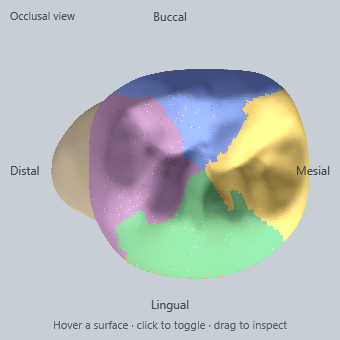
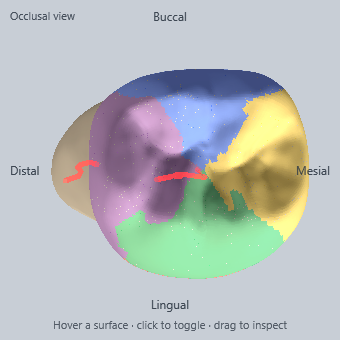
fix

Changed region(s): [[0.4412, 0.4706, 0.6176, 0.5588], [0.1765, 0.4706, 0.2941, 0.5588]]

diff --git a/MyOrganizer.Wpf/MVVM/Views/DentalChart/ToothLabView.xaml b/MyOrganizer.Wpf/MVVM/Views/DentalChart/ToothLabView.xaml
@@ -165,24 +165,25 @@
                         <ItemsControl.ItemTemplate>
                             <DataTemplate>
                                 <DockPanel LastChildFill="True" Margin="0,0,0,10">
-                                    <StackPanel DockPanel.Dock="Right" Orientation="Horizontal"
+                                    <StackPanel DockPanel.Dock="Right" Orientation="Vertical"
                                                 VerticalAlignment="Top" Margin="8,0,0,0">
                                         <Button Content="Edit"
                                                 Style="{StaticResource SecondaryButton}"
-                                                Padding="10,4" Margin="0,0,6,0"
+                                                Padding="10,4" Margin="0,0,0,6"
                                                 Command="{Binding EditCommand}"/>
                                         <Button Content="Remove"
                                                 Style="{StaticResource SecondaryButton}"
                                                 Padding="10,4"
                                                 Command="{Binding RemoveCommand}"/>
                                     </StackPanel>
-                                    <StackPanel MinWidth="0">
+                                    <StackPanel MinWidth="0" HorizontalAlignment="Stretch">
                                         <TextBlock Text="{Binding Title}" FontWeight="SemiBold"
-                                                   TextWrapping="Wrap"
+                                                   TextWrapping="Wrap" TextTrimming="None"
                                                    Foreground="{StaticResource Brush.TextPrimary}"/>
                                         <TextBlock Text="{Binding SurfacesDisplay}"
                                                    Style="{StaticResource Caption}"
-                                                   TextWrapping="Wrap" Margin="0,2,0,0"/>
+                                                   TextWrapping="Wrap" Margin="0,2,0,0"
+                                                   Visibility="{Binding HasDetail, Converter={StaticResource BoolToVis}}"/>
                                     </StackPanel>
                                 </DockPanel>
                             </DataTemplate>

diff --git a/MyOrganizer.Wpf/Controls/ToothMeshView.xaml b/MyOrganizer.Wpf/Controls/ToothMeshView.xaml
@@ -6,7 +6,8 @@
              SnapsToDevicePixels="False">
     <Grid Background="#C8CED6">
         <Viewbox Stretch="Fill">
-            <Viewport3D x:Name="View3D" Width="768" Height="768" IsHitTestVisible="True">
+            <Grid Width="768" Height="768">
+            <Viewport3D x:Name="View3D" IsHitTestVisible="True">
                 <Viewport3D.Camera>
                     <OrthographicCamera x:Name="OrthoCam"
                                        Width="1.8"
@@ -110,6 +111,24 @@
                 <ModelVisual3D x:Name="SelectedOverlayVisual"/>
                 <ModelVisual3D x:Name="HoverOverlayVisual"/>
             </Viewport3D>
+            <Viewport3D x:Name="CanalGhostView" IsHitTestVisible="False">
+                <Viewport3D.Camera>
+                    <OrthographicCamera x:Name="GhostOrthoCam"
+                                       Width="1.8"
+                                       NearPlaneDistance="0.05"
+                                       FarPlaneDistance="200"
+                                       LookDirection="0,0,-1"
+                                       UpDirection="0,1,0"
+                                       Position="0,0,4"/>
+                </Viewport3D.Camera>
+                <ModelVisual3D>
+                    <ModelVisual3D.Content>
+                        <AmbientLight Color="#FFFFFFFF"/>
+                    </ModelVisual3D.Content>
+                </ModelVisual3D>
+                <ModelVisual3D x:Name="CanalGhostVisual"/>
+            </Viewport3D>
+            </Grid>
         </Viewbox>
 
         <TextBlock x:Name="ModeCaption" Text="Occlusal view"

diff --git a/MyOrganizer.Wpf/Controls/ToothMeshView.xaml.cs b/MyOrganizer.Wpf/Controls/ToothMeshView.xaml.cs
@@ -40,6 +40,12 @@ public partial class ToothMeshView : UserControl
         NearPlaneDistance = 0.05,
         FarPlaneDistance = 200
     };
+    private readonly PerspectiveCamera _ghostOrbitCam = new()
+    {
+        FieldOfView = 32,
+        NearPlaneDistance = 0.05,
+        FarPlaneDistance = 200
+    };
 
     private Point _last;
     private bool _dragging;
@@ -64,6 +70,8 @@ public partial class ToothMeshView : UserControl
     private IReadOnlyDictionary<string, IReadOnlyList<CanalSample>> _canalPaths =
         new Dictionary<string, IReadOnlyList<CanalSample>>();
     private Material? _canalMaterial;
+    private Material? _canalGhostMaterial;
+    private int _orbitCanalSync;
     private Material? _fillingMaterial;
     private Material? _hoverMaterial;
     private Material? _selectedMaterial;
@@ -381,7 +389,8 @@ public partial class ToothMeshView : UserControl
             "{\"fdi\":\"" + Esc(_loadedFdi) +
             "\",\"ids\":\"" + Esc(string.Join(",", _rootCanalIds)) +
             "\",\"pathCount\":" + _canalPaths.Count +
-            ",\"drawn\":" + ((CanalOverlayVisual.Content as Model3DGroup)?.Children.Count ?? 0) + "}");
+            ",\"drawn\":" + ((CanalOverlayVisual.Content as Model3DGroup)?.Children.Count ?? 0) +
+            ",\"ghost\":" + ((CanalGhostVisual.Content as Model3DGroup)?.Children.Count ?? 0) + "}");
         // #endregion
     }
 
@@ -408,6 +417,7 @@ public partial class ToothMeshView : UserControl
         SurfaceOverlayVisual.Content = null;
         ClinicalOverlayVisual.Content = null;
         CanalOverlayVisual.Content = null;
+        CanalGhostVisual.Content = null;
         SelectedOverlayVisual.Content = null;
         HoverOverlayVisual.Content = null;
         MissingOverlay.Visibility = Visibility.Collapsed;
@@ -651,7 +661,7 @@ public partial class ToothMeshView : UserControl
         OrthoCam.Width = Math.Max(0.8, span * 1.32);
         SyncLights(OrthoCam.LookDirection, OrthoCam.UpDirection);
         UpdateChrome();
-        ApplyCanalOverlays();
+        SyncCanalGhostCamera();
         LogFraming("frame-occlusal");
         CaptureViewPreview("occlusal");
     }
@@ -671,7 +681,7 @@ public partial class ToothMeshView : UserControl
         OrthoCam.Width = Math.Max(0.8, across * 1.36);
         SyncLights(OrthoCam.LookDirection, OrthoCam.UpDirection);
         UpdateChrome();
-        ApplyCanalOverlays();
+        SyncCanalGhostCamera();
         LogFraming("frame-" + name);
         CaptureViewPreview(name);
     }
@@ -696,7 +706,42 @@ public partial class ToothMeshView : UserControl
         _orbitCam.UpDirection = up;
         SyncLights(_orbitCam.LookDirection, _orbitCam.UpDirection);
         UpdateChrome();
-        ApplyCanalOverlays();
+        SyncCanalGhostCamera();
+        if (_rootCanalIds.Count > 0 && (++_orbitCanalSync % 12) == 0)
+        {
+            // #region agent log
+            AgentLog("A", "canal-ghost-sync",
+                "{\"fdi\":\"" + Esc(_loadedFdi) +
+                "\",\"runId\":\"post-fix\"" +
+                ",\"cam\":\"" + (View3D.Camera is OrthographicCamera ? "ortho" : "persp") +
+                "\",\"offset\":false" +
+                ",\"front\":" + ((CanalOverlayVisual.Content as Model3DGroup)?.Children.Count ?? 0) +
+                ",\"ghost\":" + ((CanalGhostVisual.Content as Model3DGroup)?.Children.Count ?? 0) + "}");
+            // #endregion
+        }
+    }
+
+    private void SyncCanalGhostCamera()
+    {
+        if (ReferenceEquals(View3D.Camera, OrthoCam))
+        {
+            CanalGhostView.Camera = GhostOrthoCam;
+            GhostOrthoCam.Position = OrthoCam.Position;
+            GhostOrthoCam.LookDirection = OrthoCam.LookDirection;
+            GhostOrthoCam.UpDirection = OrthoCam.UpDirection;
+            GhostOrthoCam.Width = OrthoCam.Width;
+            GhostOrthoCam.NearPlaneDistance = OrthoCam.NearPlaneDistance;
+            GhostOrthoCam.FarPlaneDistance = OrthoCam.FarPlaneDistance;
+            return;
+        }
+
+        CanalGhostView.Camera = _ghostOrbitCam;
+        _ghostOrbitCam.Position = _orbitCam.Position;
+        _ghostOrbitCam.LookDirection = _orbitCam.LookDirection;
+        _ghostOrbitCam.UpDirection = _orbitCam.UpDirection;
+        _ghostOrbitCam.FieldOfView = _orbitCam.FieldOfView;
+        _ghostOrbitCam.NearPlaneDistance = _orbitCam.NearPlaneDistance;
+        _ghostOrbitCam.FarPlaneDistance = _orbitCam.FarPlaneDistance;
     }
 
     /// <summary>
@@ -1217,35 +1262,48 @@ public partial class ToothMeshView : UserControl
     private void ApplyCanalOverlays(bool log = false)
     {
         _canalMaterial ??= CanalMaterial();
+        _canalGhostMaterial ??= CanalGhostMaterial();
         if (_rootCanalIds.Count == 0 || _canalPaths.Count == 0)
         {
             CanalOverlayVisual.Content = null;
+            CanalGhostVisual.Content = null;
+            SyncCanalGhostCamera();
             return;
         }
 
-        var group = new Model3DGroup();
+        var front = new Model3DGroup();
+        var ghost = new Model3DGroup();
         foreach (var id in _rootCanalIds)
         {
             if (!_canalPaths.TryGetValue(id, out var path) || path.Count < 2)
                 continue;
-            var cam = View3D.Camera as ProjectionCamera;
-            var look = cam?.LookDirection ?? new Vector3D(0, 0, -1);
-            var visible = ToothRootCanalGuide.VisibleInside(path, look);
-            group.Children.Add(new GeometryModel3D
+            var mesh = ToothRootCanalGuide.Tube(ToothRootCanalGuide.Centerline(path), 0.016);
+            front.Children.Add(new GeometryModel3D
             {
-                Geometry = ToothRootCanalGuide.Tube(visible, 0.016),
+                Geometry = mesh,
                 Material = _canalMaterial,
                 BackMaterial = _canalMaterial
             });
+            ghost.Children.Add(new GeometryModel3D
+            {
+                Geometry = mesh,
+                Material = _canalGhostMaterial,
+                BackMaterial = _canalGhostMaterial
+            });
         }
-        CanalOverlayVisual.Content = group.Children.Count == 0 ? null : group;
+        CanalOverlayVisual.Content = front.Children.Count == 0 ? null : front;
+        CanalGhostVisual.Content = ghost.Children.Count == 0 ? null : ghost;
+        SyncCanalGhostCamera();
         if (!log)
             return;
         // #region agent log
-        AgentLog("B", "canal-overlay",
+        AgentLog("A", "canal-overlay",
             "{\"fdi\":\"" + Esc(_loadedFdi) +
-            "\",\"ids\":\"" + Esc(string.Join(",", _rootCanalIds)) +
-            "\",\"drawn\":" + group.Children.Count +
+            "\",\"runId\":\"post-fix\"" +
+            ",\"ids\":\"" + Esc(string.Join(",", _rootCanalIds)) +
+            "\",\"dualPass\":true,\"offset\":false" +
+            ",\"front\":" + front.Children.Count +
+            ",\"ghost\":" + ghost.Children.Count +
             ",\"paths\":" + _canalPaths.Count + "}");
         // #endregion
     }
@@ -1255,6 +1313,15 @@ public partial class ToothMeshView : UserControl
         var group = new MaterialGroup();
         group.Children.Add(new DiffuseMaterial(new SolidColorBrush(Color.FromArgb(0xE0, 0xC6, 0x28, 0x28))));
         group.Children.Add(new EmissiveMaterial(new SolidColorBrush(Color.FromArgb(0x40, 0xC6, 0x28, 0x28))));
+        group.Freeze();
+        return group;
+    }
+
+    private static Material CanalGhostMaterial()
+    {
+        var group = new MaterialGroup();
+        group.Children.Add(new DiffuseMaterial(new SolidColorBrush(Color.FromArgb(0x5A, 0xC6, 0x28, 0x28))));
+        group.Children.Add(new EmissiveMaterial(new SolidColorBrush(Color.FromArgb(0x48, 0xC6, 0x28, 0x28))));
         group.Freeze();
         return group;
     }

diff --git a/MyOrganizer.Wpf/MVVM/ViewModels/ToothLabViewModel.cs b/MyOrganizer.Wpf/MVVM/ViewModels/ToothLabViewModel.cs
@@ -416,7 +416,7 @@ public sealed class ToothLabViewModel : ObservableObject
 
     public string EditorStatus =>
         _editingId is Guid id && Clinical.Find(id) is { } editing
-            ? $"Editing #{editing.DisplayNumber} {DentalProcedureTypes.DisplayName(editing.ProcedureType)}"
+            ? "Editing " + ProcedureListItem.FormatTitle(editing)
             : "New procedure · " + DentalProcedureTypes.DisplayName(SelectedProcedureType);
 
     public string SelectedSurfacesLabel
@@ -725,7 +725,18 @@ public sealed class ToothLabViewModel : ObservableObject
     {
         ProcedureItems.Clear();
         foreach (var procedure in Clinical.Procedures)
-            ProcedureItems.Add(new ProcedureListItem(this, procedure));
+        {
+            var item = new ProcedureListItem(this, procedure);
+            ProcedureItems.Add(item);
+            // #region agent log
+            AgentLog("D", "procedure-title",
+                "{\"runId\":\"post-fix\"" +
+                ",\"title\":\"" + item.Title.Replace("\\", "\\\\").Replace("\"", "\\\"") +
+                "\",\"hasHash\":" + (item.Title.Contains('#') ? "true" : "false") +
+                ",\"subtitle\":\"" + item.SurfacesDisplay.Replace("\\", "\\\\").Replace("\"", "\\\"") +
+                "\",\"type\":\"" + procedure.ProcedureType + "\"}");
+            // #endregion
+        }
         OnPropertyChanged(nameof(HasProcedures));
     }
 
@@ -1162,20 +1173,30 @@ public sealed class ProcedureListItem
     {
         Id = procedure.Id;
         DisplayNumber = procedure.DisplayNumber;
-        Title = $"#{procedure.DisplayNumber} {DentalProcedureTypes.DisplayName(procedure.ProcedureType)}";
+        Title = FormatTitle(procedure);
         SurfacesDisplay = DentalProcedureTypes.RequiresSurfaces(procedure.ProcedureType)
             ? LabSurfaces.Join(procedure.Surfaces, owner.InnerCameraLabel)
             : DentalProcedureTypes.RequiresRootCanals(procedure.ProcedureType, procedure.ToothNumber)
-                ? ToothRootCanalCatalog.Join(procedure.ToothNumber, procedure.RootCanalIds)
+                ? ""
                 : "Whole tooth";
         EditCommand = new RelayCommand(() => owner.BeginEdit(Id));
         RemoveCommand = new RelayCommand(() => owner.RemoveProcedure(Id));
+    }
+
+    public static string FormatTitle(DentalProcedure procedure)
+    {
+        var typeName = DentalProcedureTypes.DisplayName(procedure.ProcedureType);
+        if (!DentalProcedureTypes.RequiresRootCanals(procedure.ProcedureType, procedure.ToothNumber))
+            return typeName;
+        var canals = ToothRootCanalCatalog.Join(procedure.ToothNumber, procedure.RootCanalIds);
+        return string.IsNullOrEmpty(canals) ? typeName : typeName + " — " + canals;
     }
 
     public Guid Id { get; }
     public int DisplayNumber { get; }
     public string Title { get; }
     public string SurfacesDisplay { get; }
+    public bool HasDetail => !string.IsNullOrWhiteSpace(SurfacesDisplay);
     public ICommand EditCommand { get; }
     public ICommand RemoveCommand { get; }
 }

diff --git a/MyOrganizer.Wpf/Controls/ToothRootCanalGuide.cs b/MyOrganizer.Wpf/Controls/ToothRootCanalGuide.cs
@@ -143,6 +143,14 @@ internal static class ToothRootCanalGuide
         return pts;
     }
 
+    public static IReadOnlyList<Point3D> Centerline(IReadOnlyList<CanalSample> path)
+    {
+        var pts = new Point3D[path.Count];
+        for (var i = 0; i < path.Count; i++)
+            pts[i] = path[i].Point;
+        return pts;
+    }
+
     public static MeshGeometry3D Tube(IReadOnlyList<Point3D> path, double radius)
     {
         var mesh = new MeshGeometry3D();
